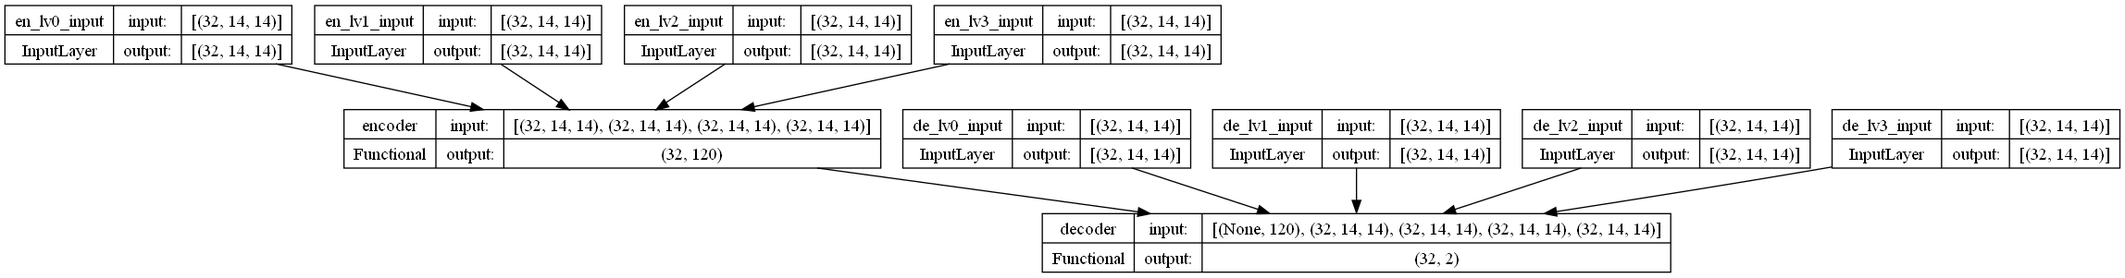
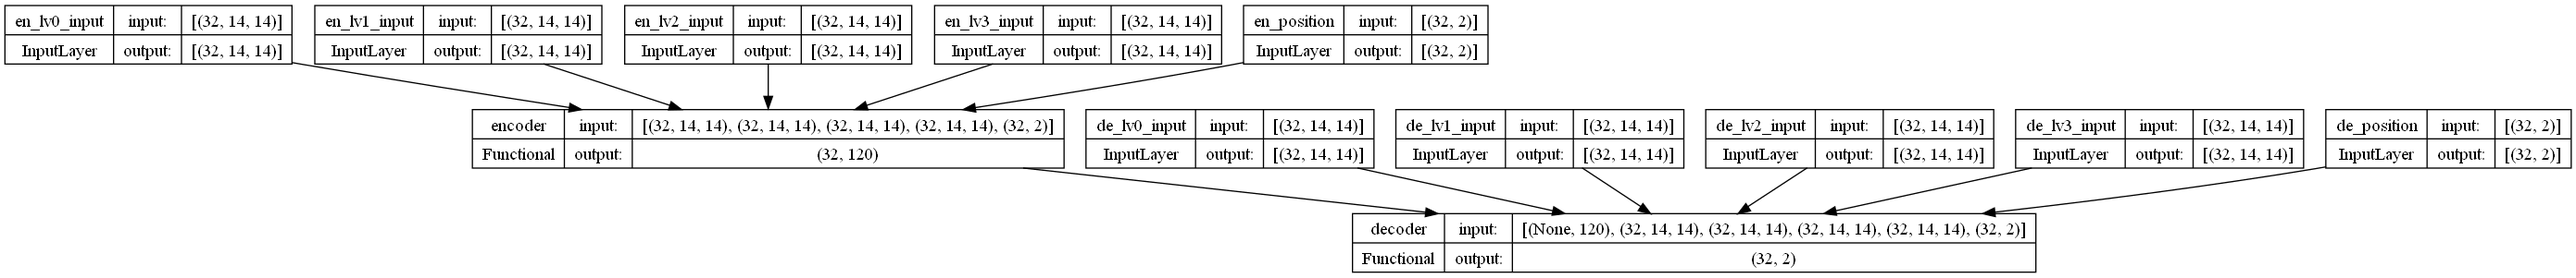
test: add position info (from 14 x 14 map)

diff --git a/Image Processing/Project 003. 흑백 이미지 컬러화 (생성형 AI 적용)/train.py b/Image Processing/Project 003. 흑백 이미지 컬러화 (생성형 AI 적용)/train.py
@@ -145,6 +145,7 @@ class Main_Model:
         input_image_lv1 = layers.Input(batch_shape=(BATCH_SIZE, COLORIZE_MAP_SIZE, COLORIZE_MAP_SIZE), name='en_lv1_input')
         input_image_lv2 = layers.Input(batch_shape=(BATCH_SIZE, COLORIZE_MAP_SIZE, COLORIZE_MAP_SIZE), name='en_lv2_input')
         input_image_lv3 = layers.Input(batch_shape=(BATCH_SIZE, COLORIZE_MAP_SIZE, COLORIZE_MAP_SIZE), name='en_lv3_input')
+        input_image_position = layers.Input(batch_shape=(BATCH_SIZE, 2), name='en_position')
 
         input_image_lv0_ = layers.Reshape((COLORIZE_MAP_SIZE, COLORIZE_MAP_SIZE, 1), name='en_lv0_reshape')(input_image_lv0)
         input_image_lv1_ = layers.Reshape((COLORIZE_MAP_SIZE, COLORIZE_MAP_SIZE, 1), name='en_lv1_reshape')(input_image_lv1)
@@ -226,7 +227,7 @@ class Main_Model:
         input_image_lv3_6 = self.encoder_lvl3_6(input_image_lv3_5)
 
         # encoder (final)
-        input_image_merged = layers.concatenate([input_image_lv0_6, input_image_lv1_6, input_image_lv2_6, input_image_lv3_6])
+        input_image_merged = layers.concatenate([input_image_lv0_6, input_image_lv1_6, input_image_lv2_6, input_image_lv3_6, input_image_position])
         input_image_final_dense = self.encoder_final_dense(input_image_merged)
 
         # latent space
@@ -239,6 +240,7 @@ class Main_Model:
         de_input_image_lv1 = layers.Input(batch_shape=(BATCH_SIZE, COLORIZE_MAP_SIZE, COLORIZE_MAP_SIZE), name='de_lv1_input')
         de_input_image_lv2 = layers.Input(batch_shape=(BATCH_SIZE, COLORIZE_MAP_SIZE, COLORIZE_MAP_SIZE), name='de_lv2_input')
         de_input_image_lv3 = layers.Input(batch_shape=(BATCH_SIZE, COLORIZE_MAP_SIZE, COLORIZE_MAP_SIZE), name='de_lv3_input')
+        de_input_image_position = layers.Input(batch_shape=(BATCH_SIZE, 2), name='de_position')
 
         de_input_image_lv0_ = layers.Reshape((COLORIZE_MAP_SIZE, COLORIZE_MAP_SIZE, 1), name='de_lv0_reshape')(de_input_image_lv0)
         de_input_image_lv1_ = layers.Reshape((COLORIZE_MAP_SIZE, COLORIZE_MAP_SIZE, 1), name='de_lv1_reshape')(de_input_image_lv1)
@@ -322,27 +324,27 @@ class Main_Model:
         de_input_image_lv3_6 = self.decoder_lvl3_6(de_input_image_lv3_5)
 
         # decoder (final)
-        de_input_image_merged = layers.concatenate([de_input_image_lv0_6, de_input_image_lv1_6, de_input_image_lv2_6, de_input_image_lv3_6, latent_for_decoder])
+        de_input_image_merged = layers.concatenate([de_input_image_lv0_6, de_input_image_lv1_6, de_input_image_lv2_6, de_input_image_lv3_6, latent_for_decoder, de_input_image_position])
 
         de_input_image_dense = self.decoder_dense(de_input_image_merged)
         de_input_image_dense = layers.Dropout(rate=dropout_rate)(de_input_image_dense)        
         de_input_image_final_dense = self.decoder_dense_final(de_input_image_dense)
 
         # define encoder, decoder and cvae model
-        self.encoder = tf.keras.Model([input_image_lv0, input_image_lv1, input_image_lv2, input_image_lv3], self.latent_space, name='encoder')
-        self.decoder = tf.keras.Model([latent_for_decoder, de_input_image_lv0, de_input_image_lv1, de_input_image_lv2, de_input_image_lv3],
+        self.encoder = tf.keras.Model([input_image_lv0, input_image_lv1, input_image_lv2, input_image_lv3, input_image_position], self.latent_space, name='encoder')
+        self.decoder = tf.keras.Model([latent_for_decoder, de_input_image_lv0, de_input_image_lv1, de_input_image_lv2, de_input_image_lv3, de_input_image_position],
                                       de_input_image_final_dense, name='decoder')
 
         self.vae = tf.keras.Model(
             inputs=[
-                input_image_lv0, input_image_lv1, input_image_lv2, input_image_lv3,
-                de_input_image_lv0, de_input_image_lv1, de_input_image_lv2, de_input_image_lv3
+                input_image_lv0, input_image_lv1, input_image_lv2, input_image_lv3, input_image_position,
+                de_input_image_lv0, de_input_image_lv1, de_input_image_lv2, de_input_image_lv3, de_input_image_position
             ],
             outputs=self.decoder([
                 self.encoder([
-                    input_image_lv0, input_image_lv1, input_image_lv2, input_image_lv3
+                    input_image_lv0, input_image_lv1, input_image_lv2, input_image_lv3, input_image_position
                 ]),
-                de_input_image_lv0, de_input_image_lv1, de_input_image_lv2, de_input_image_lv3
+                de_input_image_lv0, de_input_image_lv1, de_input_image_lv2, de_input_image_lv3, de_input_image_position
             ]),
             name='final_vae'
         )
@@ -402,11 +404,14 @@ def create_train_and_valid_data(limit=None):
 
     current_count = 0
 
+    # model inputs
     train_input_lv0 = [] # resize 112 x 112 entire image -> 14 x 14
     train_input_lv1 = [] # resize 56 x 56 area -> 14 x 14
     train_input_lv2 = [] # resize 28 x 28 area -> 14 x 14
     train_input_lv3 = [] # 14 x 14 area
-    
+    train_position = [] # position (y, x) of "8 x 8 pixel box", 0 <= x < 14, 0 <= y < 14
+
+    # model outputs
     train_x_coord = []
     train_y_coord = []
     
@@ -497,6 +502,8 @@ def create_train_and_valid_data(limit=None):
                         print('\nx, y coord (of first image) :')
                         print(coord_x[i][j], coord_y[i][j])
 
+                    train_position.append([i / (COLORIZE_MAP_SIZE - 1), j / (COLORIZE_MAP_SIZE - 1)])
+
             # test 이미지에 대한 결과 이미지 생성 테스트
             if current_count < 30:
                 hsv_array = create_hsv_image(
@@ -517,14 +524,18 @@ def create_train_and_valid_data(limit=None):
 
     final_img_count = len(train_input_lv0) // BATCH_SIZE * BATCH_SIZE
 
+    # model inputs
     train_input_lv0 = np.array(train_input_lv0)[:final_img_count]
     train_input_lv1 = np.array(train_input_lv1)[:final_img_count]
     train_input_lv2 = np.array(train_input_lv2)[:final_img_count]
     train_input_lv3 = np.array(train_input_lv3)[:final_img_count]
+    train_position = np.array(train_position)[:final_img_count]
+
+    # model outputs
     train_x_coord = np.array(train_x_coord)[:final_img_count]
     train_y_coord = np.array(train_y_coord)[:final_img_count]
     
-    return train_input_lv0, train_input_lv1, train_input_lv2, train_input_lv3, train_x_coord, train_y_coord
+    return train_input_lv0, train_input_lv1, train_input_lv2, train_input_lv3, train_position, train_x_coord, train_y_coord
 
 
 # 모델 정의 및 반환
@@ -560,7 +571,7 @@ def show_model_summary(model_class):
 # 모델 학습 실시 및 저장
 # train_input_lv0, 1, 2, 3     : 입력 greyscale 이미지
 # train_x_coord, train_y_coord : readme.md 에서 설명한, 색상과 채도를 나타내기 위한 (x, y) 좌표 값
-def train_model(train_input_lv0, train_input_lv1, train_input_lv2, train_input_lv3, train_x_coord, train_y_coord):
+def train_model(train_input_lv0, train_input_lv1, train_input_lv2, train_input_lv3, train_position, train_x_coord, train_y_coord):
 
     # normalize image
     train_input_lv0_for_model = train_input_lv0 / 255.0
@@ -581,6 +592,7 @@ def train_model(train_input_lv0, train_input_lv1, train_input_lv2, train_input_l
     print('input lv 1 shape :', np.shape(train_input_lv1_for_model))
     print('input lv 2 shape :', np.shape(train_input_lv2_for_model))
     print('input lv 3 shape :', np.shape(train_input_lv3_for_model))
+    print('input pos  shape :', np.shape(train_position))
     
     print('x   coords shape :', np.shape(train_x_coord))
     print('y   coords shape :', np.shape(train_y_coord))
@@ -591,8 +603,8 @@ def train_model(train_input_lv0, train_input_lv1, train_input_lv2, train_input_l
     # 학습 실시
     model_class.vae.fit(
         [
-            train_input_lv0_for_model, train_input_lv1_for_model, train_input_lv2_for_model, train_input_lv3_for_model,
-            train_input_lv0_for_model, train_input_lv1_for_model, train_input_lv2_for_model, train_input_lv3_for_model
+            train_input_lv0_for_model, train_input_lv1_for_model, train_input_lv2_for_model, train_input_lv3_for_model, train_position,
+            train_input_lv0_for_model, train_input_lv1_for_model, train_input_lv2_for_model, train_input_lv3_for_model, train_position
         ],
         train_all_coords_,
         epochs=3, # 1 for functionality test, 20 for regular training
@@ -625,7 +637,7 @@ if __name__ == '__main__':
     create_input_convert_test_result_dir()
 
     # 학습 데이터 추출 (이미지의 greyscale 이미지 + 색상, 채도 부분)
-    train_input_lv0, train_input_lv1, train_input_lv2, train_input_lv3, train_x_coord, train_y_coord = create_train_and_valid_data(limit=50) # 30 for functionality test
+    train_input_lv0, train_input_lv1, train_input_lv2, train_input_lv3, train_position, train_x_coord, train_y_coord = create_train_and_valid_data(limit=50) # 30 for functionality test
     
     print(f'\nshape of train input lv0: {np.shape(train_input_lv0)}, first image :')
     print(train_input_lv0[0])
@@ -639,8 +651,11 @@ if __name__ == '__main__':
     print(f'\nshape of train input lv3: {np.shape(train_input_lv3)}, first image :')
     print(train_input_lv3[0])
 
+    print(f'\nshape of train position: {np.shape(train_position)}, first image :')
+    print(train_position[:100])
+
     # 학습 실시 및 모델 저장
     vae_encoder, vae_decoder, vae_model = train_model(
-        train_input_lv0, train_input_lv1, train_input_lv2, train_input_lv3,
+        train_input_lv0, train_input_lv1, train_input_lv2, train_input_lv3, train_position,
         train_x_coord, train_y_coord
     )

diff --git a/Image Processing/Project 003. 흑백 이미지 컬러화 (생성형 AI 적용)/test.py b/Image Processing/Project 003. 흑백 이미지 컬러화 (생성형 AI 적용)/test.py
@@ -169,16 +169,19 @@ def run_test_for_img(path):
                 lv2_image = np.reshape(lv2_image, (-1, COLORIZE_MAP_SIZE, COLORIZE_MAP_SIZE))
                 lv3_image = np.reshape(lv3_image, (-1, COLORIZE_MAP_SIZE, COLORIZE_MAP_SIZE))
 
+                position = np.array([[i / (COLORIZE_MAP_SIZE - 1), j / (COLORIZE_MAP_SIZE - 1)]])
+
                 if t == 0 and i == 0 and j == 0:
                     print(f'shape of latent space  : {np.shape(latent_space)}')
                     print(f'shape of image_resized : {np.shape(image_resized)}')
                     print(f'shape of lv1_image     : {np.shape(lv1_image)}')
                     print(f'shape of lv2_image     : {np.shape(lv2_image)}')
                     print(f'shape of lv3_image     : {np.shape(lv3_image)}')
+                    print(f'shape of position      : {np.shape(position)}')
 
                 # decoder output -> x, y coord value
                 coord_x_y = decoder_model([
-                    latent_space, image_resized, lv1_image, lv2_image, lv3_image
+                    latent_space, image_resized, lv1_image, lv2_image, lv3_image, position
                 ])
 
                 if t == 0 and i == 0 and j == 0:
